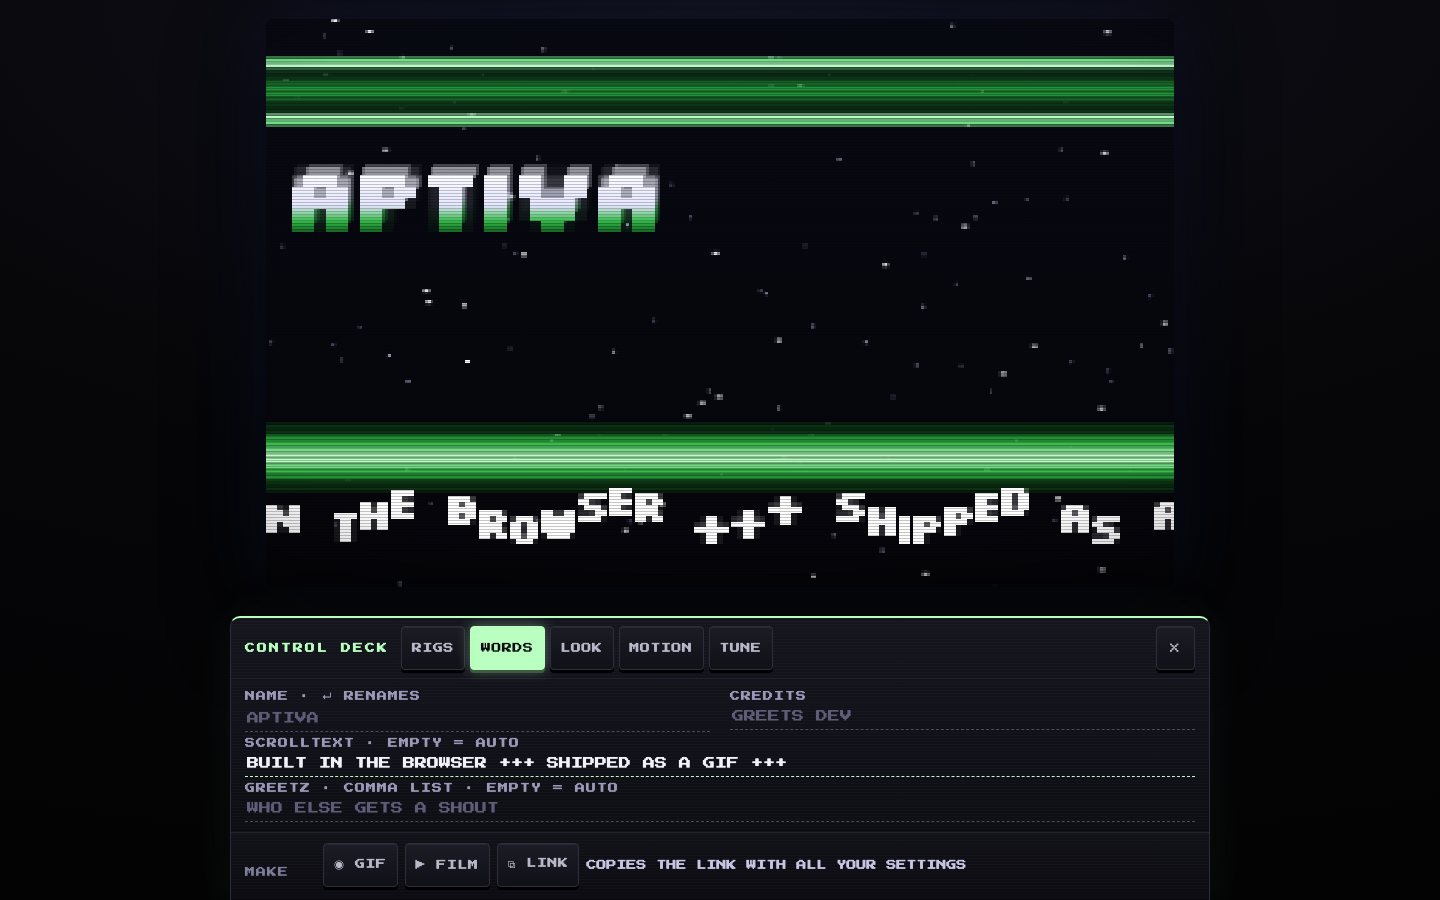
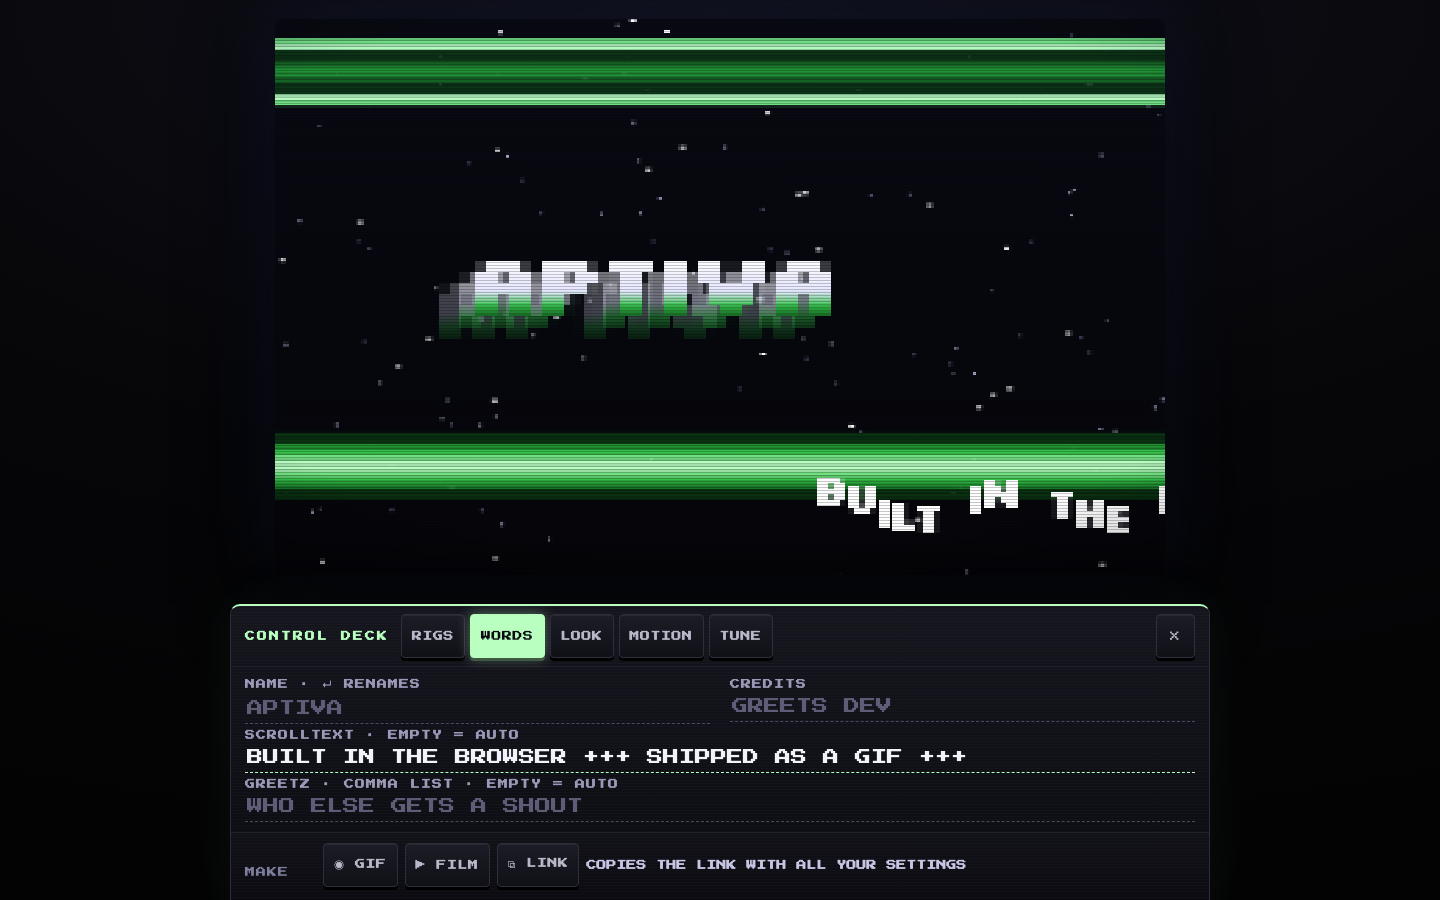
v8: pins paint what they claim, the roll tiles, the loop meets itself
- renderPinned returns after board/still — no more blitter over the board
- greetz roll tiles the strip: 1-name lists fill, wraps never go dark
- deck rises off the bottom edge; no more corner sweep across the glass
- typed scrolltext restarts the pin crawl — new words walk on now
- gif boomerang writes both endpoints: the wrap lands on frame 0 exactly
- plasma rides the lit range — the field never dies to black mid-cycle
- wipe hold consumes the sections wipe; re-arms on deck-height retargets
- mute arms even with tune OFF; SND ON only when a tune exists
- 16px fields (no iOS zoom), close-key focus yields to typing, manual
  URL self-selects, last lit PART chip stays pressable, one thud a press

Changed region(s): [[0.1875, 0.0311, 0.8125, 0.3733], [0.1562, 0.6533, 0.8438, 0.9022], [0.1875, 0.4667, 0.8125, 0.6222]]

diff --git a/src/lib/demo.ts b/src/lib/demo.ts
@@ -251,7 +251,9 @@ export class Demo {
           + Math.sin(Math.hypot(x - W / 2, y - H / 2) * 0.05 - t * 1.3)
           + Math.sin(x * 0.11 - t * 1.7) * 0.7
           + Math.sin((x - y) * 0.09 + t * 1.5) * 0.7;
-        const idx = Math.max(0, Math.min(63, Math.round((v + 6.4) / 12.8 * 63)));
+        // the field never dies to black — the palette ride is biased into
+        // its lit range so the sea keeps moving even mid-cycle
+        const idx = Math.max(0, Math.min(63, Math.round((0.16 + 0.84 * ((v + 6.4) / 12.8)) * 63)));
         d[i] = pal[idx] & 0xff; d[i + 1] = (pal[idx] >> 8) & 0xff; d[i + 2] = (pal[idx] >> 16) & 0xff; d[i + 3] = 255;
         i += 4;
       }
@@ -283,14 +285,14 @@ export class Demo {
     }
   }
 
-  renderClassic(t: number, logo = true, scroll = true, ampScale = 1) {
+  renderClassic(t: number, logo = true, scroll = true, ampScale = 1, scrollT = t) {
     const c = this.ctx;
     c.fillStyle = '#05050a';
     c.fillRect(0, 0, W, H);
     this.starfield(t);
     this.copper(t);
     if (logo) this.waveLogo(t, H * 0.3);
-    if (scroll) this.scroller(t, 2, H - 22, ampScale);
+    if (scroll) this.scroller(scrollT, 2, H - 22, ampScale);
   }
 
   private solidCache = new Map<string, HTMLCanvasElement>();
@@ -365,23 +367,28 @@ export class Demo {
     c.beginPath();
     c.rect(0, 36, W, 118);
     c.clip();
+    if (!greetz.length) { c.restore(); this.copperBar(6, t * 3); this.copperBar(H - 30, t * 3 + 3); return; }
     const lineH = 22;
     const total = greetz.length * lineH;
-    // the roll wraps on itself — a name is always crossing the window;
-    // an empty pass under two copper rules is dead air, not a beat
-    const off = (t * 34) % total;
-    for (let j = 0; j * lineH < H + lineH + off; j++) {
-      const n = greetz[j % greetz.length];
-      const y = H - off + j * lineH;
-      if (y > H + lineH || y < -lineH) continue;
+    // the roll is an infinite tiled strip — every name repeats every `total`
+    // pixels of travel, so a one-name list fills the window and the wrap is
+    // seamless instead of a dark pass
+    const d = (t * 34) % total;
+    for (let i = 0; i < greetz.length; i++) {
+      const n = greetz[i];
       const scale = n === 'YOU' ? 2.6 : 2;
-      let x = (W - this.drawnW(n, scale)) / 2;
-      for (const ch of n) {
-        const gl = this.font.get(ch);
-        if (!gl) { x += 8 * scale * 0.5; continue; }
-        const bounce = n === 'YOU' ? Math.sin(t * 4 + x * 0.05) * 3 : 0;
-        c.drawImage(gl.cv, x, y + bounce, gl.w * scale, gl.h * scale);
-        x += gl.w * scale + 2;
+      const w = this.drawnW(n, scale);
+      for (let y = H - d - i * lineH; y < H + lineH; y += total) {
+        if (y < -lineH) continue;
+        const bounce = n === 'YOU' ? Math.sin(t * 4) * 3 : 0;
+        const x0 = (W - w) / 2;
+        let x = x0;
+        for (const ch of n) {
+          const gl = this.font.get(ch);
+          if (!gl) { x += 8 * scale * 0.5; continue; }
+          c.drawImage(gl.cv, x, y + bounce, gl.w * scale, gl.h * scale);
+          x += gl.w * scale + 2;
+        }
       }
     }
     c.restore();
@@ -657,8 +664,8 @@ export class Demo {
     if (!m) return false;
     // absolute clock — a pin must not restart its crawl on the rotator's
     // 9-second boundary
-    if (m === 'greetz') this.renderGreetzBoard(greetz);
-    else if (m === 'scroll' && still) {
+    if (m === 'greetz') { this.renderGreetzBoard(greetz); return true; }
+    if (m === 'scroll' && still) {
       // the frozen pin parks the phrase centered in the band — a fragment
       // frozen mid-crawl is useless to the person editing it. shrink until
       // it fits, and if even that fails keep the START of the line, not
@@ -669,12 +676,19 @@ export class Demo {
       while (s > 0.5 && this.drawnW(line, s) > W - 16) s -= 0.25;
       while (line.length > 1 && this.drawnW(line, s) > W - 16) line = line.slice(0, -1);
       this.tinyText(line, H - 30, 0, s);
+      return true;
     }
     // the edit pin crawls slow and soft — the tube should read like the
     // field you're typing in, not pile the sentence on a steep sine
     this.pinY = H - 30;
     try {
-      if (m === 'scroll') this.renderClassic(t * 0.45, true, true, 0.55);
+      if (m === 'scroll') {
+        // the line you're typing walks on now — a fresh text restarts the
+        // crawl's clock so the first glyph is on the glass this frame,
+        // not after the old sentence has crawled off
+        if (this.scrolltext !== this.pinText) { this.pinText = this.scrolltext; this.pinT0 = t; }
+        this.renderClassic(t, true, true, 0.55, (t - this.pinT0) * 0.45);
+      }
       else if (m === 'classic') this.renderClassic(t);
       else if (m === 'plasma') this.renderPlasma(t);
       else if (m === 'copper') this.renderCopper(t);
@@ -699,8 +713,12 @@ export class Demo {
       }
       // sections never teleport: a copper-clock wipe reveals the new frame.
       // while the tube itself is moving (deck park in or out) the shutters
-      // hold — a wipe fired through a resize is the slit, not a transition
-      if (performance.now() >= this.wipeHoldUntil) this.wipe(lt / 0.45);
+      // hold — a wipe fired through a resize is the slit, not a transition.
+      // a held wipe doesn't arrive half-closed when the hold ends: if the
+      // hold covered this section's window, that wipe is consumed
+      const held = performance.now() < this.wipeHoldUntil;
+      if (held) this.wipeSkipSec = Math.floor(t / 9);
+      else if (lt < 0.45 && this.wipeSkipSec !== Math.floor(t / 9)) this.wipe(lt / 0.45);
     }
     // the mute badge sits above any pin — silence must be visible; a fresh
     // boot answers the same way so the state is never inferred
@@ -711,6 +729,12 @@ export class Demo {
   // suppress the section wipe for a wall-clock window — set while CSS is
   // still parking or releasing the tube
   wipeHoldUntil = 0;
+  // a section whose wipe window was spent inside a hold — the shutters
+  // must not slam half-closed the moment the hold lifts
+  wipeSkipSec = -1;
+  // the pinned scroller's own clock — set when the text it shows changes
+  pinText = '';
+  pinT0 = 0;
   holdWipe(ms: number) { this.wipeHoldUntil = Math.max(this.wipeHoldUntil, performance.now() + ms); }
   // the SND ON badge's lease — set as the running phase begins
   sndOnUntil = 0;

diff --git a/src/Deck.tsx b/src/Deck.tsx
@@ -104,8 +104,9 @@ export default function Deck(props: {
   linkNote: string;
 }) {
   const { spec, resolved, hot, exp } = props;
-  // a thumb press confirms itself — the same thud the boot and EDIT use
-  const haptic = () => { if (navigator.maxTouchPoints > 0) props.onTap?.(); };
+  // every key press confirms itself — the same thud the boot and EDIT use;
+  // patch stays silent so typing isn't a drumroll
+  const haptic = () => props.onTap?.();
   const [tab, setTab] = useState<Tab>('rigs');
   const [nameDraft, setNameDraft] = useState('');
   // the greetz field edits a comma list — keep a raw draft so the comma the
@@ -113,11 +114,21 @@ export default function Deck(props: {
   // draft from spec when the field isn't the thing typing it
   const [greetzDraft, setGreetzDraft] = useState(spec.greetz.join(', '));
   const [greetzFocus, setGreetzFocus] = useState(false);
+  const xRef = useRef<HTMLButtonElement>(null);
+  // the manual link hands itself over — focused and selected the moment it
+  // appears, so one ⌘C is the whole interaction
+  const urlRef = useRef<HTMLInputElement>(null);
+  useEffect(() => {
+    if (props.linkState === 'manual') { urlRef.current?.focus({ preventScroll: true }); urlRef.current?.select(); }
+  }, [props.linkState]);
   // the exit key takes focus after the entrance, not while it is still
   // parked off-screen — focusing it early scrolls the page to it
-  const xRef = useRef<HTMLButtonElement>(null);
   useEffect(() => {
-    const t = setTimeout(() => xRef.current?.focus({ preventScroll: true }), 720);
+    const t = setTimeout(() => {
+      // don't steal focus out from under someone already typing in the bay
+      if (xRef.current && !xRef.current.closest('.deck')?.contains(document.activeElement))
+        xRef.current.focus({ preventScroll: true });
+    }, 720);
     return () => clearTimeout(t);
   }, []);
   // SAVE relabels once the download has actually been handed over — the
@@ -126,9 +137,15 @@ export default function Deck(props: {
   useEffect(() => setSaved(false), [exp.result]);
   useEffect(() => { if (!greetzFocus) setGreetzDraft(spec.greetz.join(', ')); }, [spec.greetz, greetzFocus]);
 
+  // a lit PARTS key is a preview: first press shows you the section on the
+  // tube; pressing the one already on the glass takes it out of the cycle.
+  // declared before the pin effect so the effect can reset it — otherwise a
+  // tab round-trip leaves a stale id and the next press deletes its part
+  const secPinRef = useRef<SectionId | ''>('');
   // the tube shows the thing you're turning: words and motion pin the
   // scroller, the greetz field pins the roll, everything else free-wheels
   useEffect(() => {
+    secPinRef.current = '';
     props.onPreview(greetzFocus ? 'greetz' : tab === 'words' || tab === 'motion' ? 'scroll' : '');
     return () => props.onPreview('');
   }, [tab, greetzFocus]); // eslint-disable-line react-hooks/exhaustive-deps
@@ -137,9 +154,6 @@ export default function Deck(props: {
   // be able to close while a field has focus
   const inputKeys = (e: React.KeyboardEvent) => { if (e.key !== 'Escape') e.stopPropagation(); };
   const secs = spec.sections === 'auto' ? ['classic', 'plasma', 'blitter'] as SectionId[] : spec.sections;
-  // a lit PARTS key is a preview: first press shows you the section on the
-  // tube; pressing the one already on the glass takes it out of the cycle
-  const secPinRef = useRef<SectionId | ''>('');
   const setSec = (id: SectionId) => {
     const has = secs.includes(id);
     if (has && secPinRef.current !== id) { secPinRef.current = id; props.onPreview(id); return; }
@@ -179,6 +193,7 @@ export default function Deck(props: {
                 // field's blur doesn't fire under a synthetic click — but
                 // only blur what's inside the body, or focus falls off the
                 // tab row entirely
+                haptic();
                 setGreetzFocus(false);
                 const ae = document.activeElement as HTMLElement | null;
                 if (ae?.closest?.('.deckbody')) ae.blur();
@@ -191,7 +206,7 @@ export default function Deck(props: {
         {/* the deck is a dialog — opening it hands focus to its exit key,
             but only once the bay has landed; autoFocus during the entrance
             fill scrolls an off-screen key into view and yanks the tube */}
-        <button type="button" ref={xRef} className="key deckx" onClick={props.onClose} aria-label="close deck">×</button>
+        <button type="button" ref={xRef} className="key deckx" onClick={() => { haptic(); props.onClose(); }} aria-label="close deck">×</button>
       </div>
 
       <div className="deckbody">
@@ -282,7 +297,6 @@ export default function Deck(props: {
             <Row label="PARTS">
               {SECTION_ORDER.map((s) => (
                 <Chip key={s} toggle on={secs.includes(s)} hot={hot} label={SEC_LABELS[s]}
-                  disabled={secs.includes(s) && secs.length === 1}
                   onPress={() => setSec(s)} />
               ))}
               <span className="dnote">+ GREETZ ALWAYS</span>
@@ -355,7 +369,7 @@ export default function Deck(props: {
               {props.linkState === 'manual' ? (
                 // the clipboard refused — the URL holds as a real field that
                 // selects itself until the next press, not a note that hides
-                <input className="dinput urlline" readOnly value={props.linkNote} aria-label="share link"
+                <input ref={urlRef} className="dinput urlline" readOnly value={props.linkNote} aria-label="share link"
                   onFocus={(e) => e.currentTarget.select()} />
               ) : (
                 <span className="dnote" aria-live="polite">{props.linkNote}</span>

diff --git a/src/App.tsx b/src/App.tsx
@@ -160,7 +160,13 @@ export default function App() {
         else if (ph === 'preboot') demo.renderPreboot(t, TOUCH, now - powerRef.current.pressAt < 260);
         else if (ph === 'poweron') {
           const u = (now - powerRef.current.started) / 600;
-          if (u >= 1) { powerRef.current.done = now; demo.sndOnUntil = now + 2400; setPhase('running'); }
+          if (u >= 1) {
+            powerRef.current.done = now;
+            // no tune, nothing to announce — the badge claims a sound that
+            // doesn't exist on the OFF rig ('auto' resolves to a real tune)
+            if (specRef.current.tune !== 'off') demo.sndOnUntil = now + 2400;
+            setPhase('running');
+          }
           else demo.renderPowerOn(u, name, t);
         }
         else {
@@ -226,12 +232,13 @@ export default function App() {
   // is not a mute change and must not announce itself as one
   const [muteMsg, setMuteMsg] = useState('');
   const toggleMute = () => {
-    const d = deckRef.current;
-    if (!d) return;
+    // no deck = tune OFF — the flag still flips so the choice is already
+    // armed when a tune is switched back on
     mutedRef.current = !mutedRef.current;
     setMuted(mutedRef.current);
     setMuteMsg(mutedRef.current ? 'sound off' : 'sound on');
-    d.gain.gain.value = mutedRef.current ? 0 : 0.8;
+    const d = deckRef.current;
+    if (d) d.gain.gain.value = mutedRef.current ? 0 : 0.8;
     try { localStorage.setItem('greets-muted', mutedRef.current ? '1' : '0'); } catch { /* private mode */ }
     const dm = demoRef.current;
     if (REDUCED && dm) { dm.muted = mutedRef.current; dm.previewMode = previewRef.current; dm.renderReduced(greetzRef.current); }
@@ -256,12 +263,19 @@ export default function App() {
     if (!deckOpen) { root.style.removeProperty('--deckh'); return; }
     const el = document.querySelector('.deck') as HTMLElement | null;
     if (!el) return;
+    let lastH = 0;
     const ro = new ResizeObserver(() => {
       // publish the content height, not the squeezed border box — during the
       // entrance the column can overflow and flex shrinks the bay, and a
-      // squeezed (or detached, zero) frame must never retarget the tube
+      // squeezed (or detached, zero) frame must never retarget the tube.
+      // every retarget also re-arms the wipe hold — a tab switch resizes the
+      // tube and must not meet a shutter on the way
       const h = Math.max(el.scrollHeight, Math.round(el.getBoundingClientRect().height));
-      if (h > 0) root.style.setProperty('--deckh', `${h}px`);
+      if (h > 0 && h !== lastH) {
+        if (lastH > 0) demoRef.current?.holdWipe(500);
+        lastH = h;
+        root.style.setProperty('--deckh', `${h}px`);
+      }
     });
     ro.observe(el);
     return () => { ro.disconnect(); root.style.removeProperty('--deckh'); };
@@ -329,14 +343,14 @@ export default function App() {
   const patch = (p: Partial<Spec>) => {
     if (STYLE_KEYS.some((k) => k in p)) pushUndo();
     setSpec((s) => ({ ...s, ...p }));
-    thud(8);
+    // no thud here — the Chip's press already buzzes, and fields call patch
+    // on every keystroke; a patch must not mean a sound
   };
   const undo = () => {
     const prev = undoRef.current.pop();
     if (!prev) return;
     if (!undoRef.current.length) setCanUndo(false);
     setSpec((s) => ({ ...s, ...prev }));
-    thud(8);
   };
   // the deck pins the tube to the part being edited
   const previewRef = useRef<Preview>('');

diff --git a/src/app.css b/src/app.css
@@ -142,15 +142,15 @@ body { background: #060608; overflow: hidden; font-family: 'PS2P', monospace; }
   border-radius: 10px 10px 0 0;
   box-shadow: 0 -18px 60px rgba(0,0,0,0.65), 0 0 40px color-mix(in srgb, var(--hot, #f80) 8%, transparent);
   font-family: 'PS2P', monospace;
-  /* the tube parks first, then the bay unfolds from the EDIT key's corner —
-     during the delay it sits invisible where the key was (backwards fill) */
+  /* the tube parks first, then the bay rises off the bottom edge —
+     it never crosses the glass on the way in (backwards fill keeps it
+     hidden during the delay while the tube settles) */
   animation: deckin 0.34s 0.34s cubic-bezier(0.2, 0.9, 0.25, 1) backwards;
   overflow: hidden;
 }
 @keyframes deckin {
-  from { transform: translate(44vw, -62vh) scale(0.24); opacity: 0; }
-  40% { opacity: 1; }
-  to { transform: translate(0, 0) scale(1); opacity: 1; }
+  from { transform: translateY(102%); opacity: 0.4; }
+  to { transform: translateY(0); opacity: 1; }
 }
 
 .deckhead {
@@ -245,8 +245,9 @@ body { background: #060608; overflow: hidden; font-family: 'PS2P', monospace; }
 
 .dinput {
   /* the bay speaks in two sizes — captions at 10px, the words you're
-     actually writing one size up so the field reads as the value */
-  font-family: 'PS2P', monospace; font-size: 12px; color: #f2f2fa;
+     actually writing clearly larger; 16px also keeps iOS from zooming
+     a focused field in an overflow-hidden page */
+  font-family: 'PS2P', monospace; font-size: 16px; color: #f2f2fa;
   background: transparent;
   border: 0; border-bottom: 1px dashed #4a4a60;
   padding: 8px 2px 7px; caret-color: var(--hot, #f80);
@@ -266,10 +267,9 @@ body { background: #060608; overflow: hidden; font-family: 'PS2P', monospace; }
 
 @media (max-width: 720px) {
   .app .tube { transition: none; }
-  /* on a phone the tube docks to the top safe area while the bay works —
-     the leftover room belongs under the glass, not split around it, and
-     the bay still owns the bottom edge */
-  .app.editing .tube { margin-block: 0; margin-top: max(10px, env(safe-area-inset-top)); margin-bottom: 8px; }
+  /* the tube centers in the room above the bay — balanced breathing room
+     beats one long black shelf under the glass */
+  .app.editing .tube { margin-block: auto; }
   .app.editing .deck { margin-top: auto; }
   /* four rigs, four equal cells — ACID never orphans a row */
   .rigkeys { display: grid; grid-template-columns: 1fr 1fr; }
@@ -285,7 +285,7 @@ body { background: #060608; overflow: hidden; font-family: 'PS2P', monospace; }
   .deckx { min-width: 44px; min-height: 44px; }
   .dlabel { width: 68px; font-size: 10px; padding-top: 15px; }
   .dfields { grid-template-columns: 1fr; gap: 2px; }
-  .dinput { font-size: 12px; padding: 9px 2px 8px; }
+  .dinput { padding: 9px 2px 8px; }
   .dkeys .dnote { flex-basis: 100%; }
   .fab { right: 12px; top: max(12px, calc(env(safe-area-inset-top) + 8px)); }
   .deckfoot { padding-bottom: calc(13px + env(safe-area-inset-bottom)); }

diff --git a/src/lib/export.ts b/src/lib/export.ts
@@ -122,10 +122,12 @@ export async function exportGif(assets: DemoAssets, greetz: string[], rampName: 
     await nextFrame();
   }
   const gif = GIFEncoder();
-  const total = n * 2 - 2;
+  const total = n * 2;
   const order: number[] = [];
+  // both endpoints written: the wrap lands on frame 0 exactly — a boomerang
+  // that skips its endpoints stutters at the two places the eye watches
   for (let i = 0; i < n; i++) order.push(i);
-  for (let i = n - 2; i > 0; i--) order.push(i);
+  for (let i = n - 1; i >= 0; i--) order.push(i);
   for (let i = 0; i < order.length; i++) {
     if (signal.aborted) throw new DOMException('cancelled', 'AbortError');
     // one global palette on the first frame — later frames just index into it
